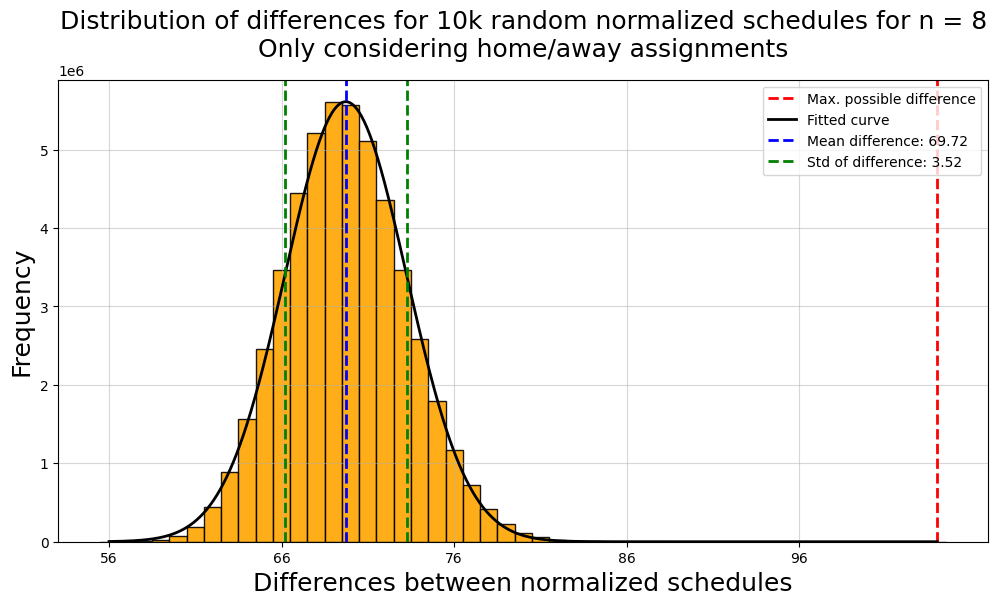
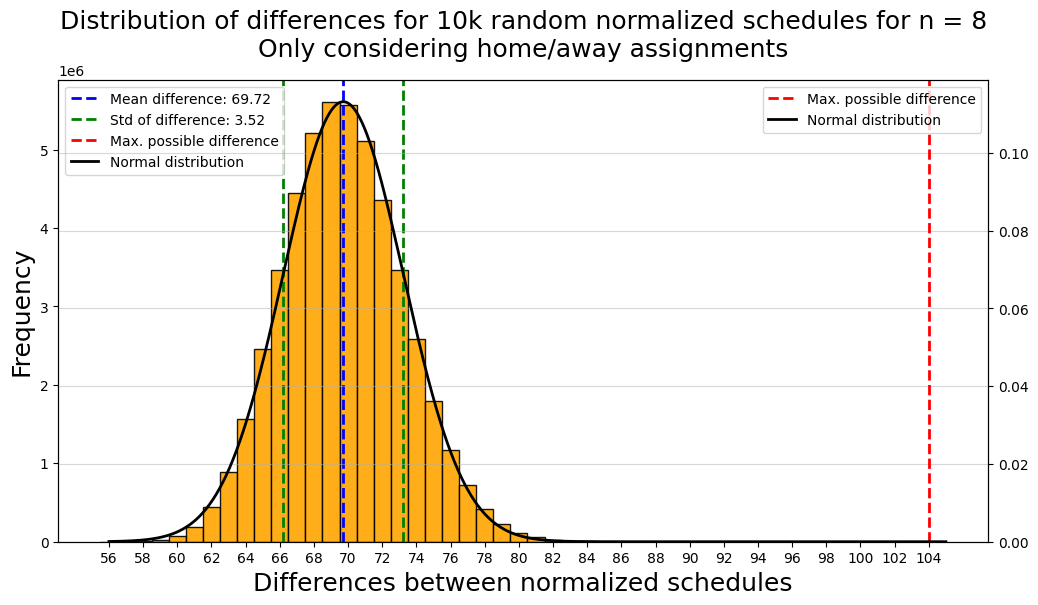
Beta Binom: all plots updated
Beta binom is now used for most plots, except for plots only comparing home/away assignments. They use a normal dist.

diff --git a/TTP/plot.py b/TTP/plot.py
@@ -76,21 +76,14 @@ def plot_diff_norm(file_path, n, plot_ID, title_add="", show=False):
 
     # Plot a curve to match the distribution of the differences
     if plot_ID < 3 and (plot_ID != 1 or n > 4):
-        x_axis_fit = np.linspace(min_diff, max_diff + 1, 1000)
-
-        # pdf_fitted = lognorm.fit(differences)
-        # ax2.plot(x_axis_fit, pdf_fitted, color='black', linestyle='-', linewidth=2, label="Lognormal distribution")
-
-        # pdf_fitted = norm.fit(x_axis_fit, mean_diff, std_diff)
-        # ax2.plot(x_axis_fit, pdf_fitted, color='black', linestyle='-', linewidth=2, label="Normal distribution")
-
-        # a, b = fit_beta(x_fit, np.append(freqs, [0]), max_diff)
-        # pdf_fitted = beta.pdf(x_axis_fit, a, b, loc=0, scale=max_diff)
-        # ax2.plot(x_axis_fit, pdf_fitted, color='black', linestyle='-', linewidth=2, label=f"Beta distribution: a={a:.2f}, b={b:.2f}")
-
-        a, b = fit_beta_binom(x_axis, np.append(freqs, [0]), max_diff)
-        pmf_fitted = betabinom.pmf(x_axis, max_diff, a, b, loc=0)
-        ax2.plot(x_axis, pmf_fitted, color='black', linestyle='-', linewidth=2, label=f"Beta binom distribution: a={a:.2f}, b={b:.2f}")
+        if plot_ID == 2 and n > 4:
+            x_axis_fit = np.linspace(min_diff, max_diff + 1, 1000)
+            pdf_fitted = norm.pdf(x_axis_fit, mean_diff, std_diff)
+            ax2.plot(x_axis_fit, pdf_fitted, color='black', linestyle='-', linewidth=2, label="Normal distribution")
+        elif n > 4:
+            a, b = fit_beta_binom(x_axis, np.append(freqs, [0]), max_diff)
+            pmf_fitted = betabinom.pmf(x_axis, max_diff, a, b, loc=0)
+            ax2.plot(x_axis, pmf_fitted, color='black', linestyle='-', linewidth=2, label=f"Beta binom distribution: a={a:.2f}, b={b:.2f}")
 
         ax1.axvline(x=mean_diff, color='blue', linestyle='--', linewidth=2, label=f"Mean difference: {mean_diff:.2f}")
         ax1.axvline(x=(mean_diff - std_diff), color='green', linestyle='--', linewidth=2, label=f"Std of difference: {std_diff:.2f}")
@@ -244,9 +237,9 @@ if __name__ == "__main__":
         # ("./Distances/Distances Teamless Random-10k-10.csv", 10, 2, "10k random ")
     ]
 
-    for plot in plots[6:7]:
+    for plot in plots:
         file_path, n, plot_ID, title_add = plot
-        plot_diff_norm(file_path, n, plot_ID, title_add, True)
+        plot_diff_norm(file_path, n, plot_ID, title_add, False)
 
     # plot_uniformity_4()
     # plot_uniformity_sorted_4()

diff --git a/TTP/calc.py b/TTP/calc.py
@@ -38,14 +38,25 @@ def fit_beta_binom(x, data, max_diff):
     best_pmf = None
     expected = data / np.sum(data)
 
-    for a in np.arange(1, 1000, 1):
-        for b in np.arange(0.1, 30, 0.1):
+    # For loop to rougly find the best fit
+    for a in np.arange(0, 10**3, 10):
+        for b in np.arange(0, 10**3, 10):
             result = diff_beta_binom_fit(x, expected, max_diff, a, b)
             if result < best_fit:
                 best_fit = result
                 best_pmf = (a, b)
+    
+    # Refine the best fit with smaller step sizes
+    for step in [10**s for s in range(-2, 2)]:
+        currentA, currentB = best_pmf
+        adj = step * 10
+        for a in np.arange(currentA - adj, currentA + adj, step):
+            for b in np.arange(currentB - adj, currentB + adj, step):
+                result = diff_beta_binom_fit(x, expected, max_diff, a, b)
+                if result < best_fit:
+                    best_fit = result
+                    best_pmf = (a, b)
 
-    print(f"Score: {best_fit}, a: {best_pmf[0]}, b: {best_pmf[1]}")
     return best_pmf
 
 
